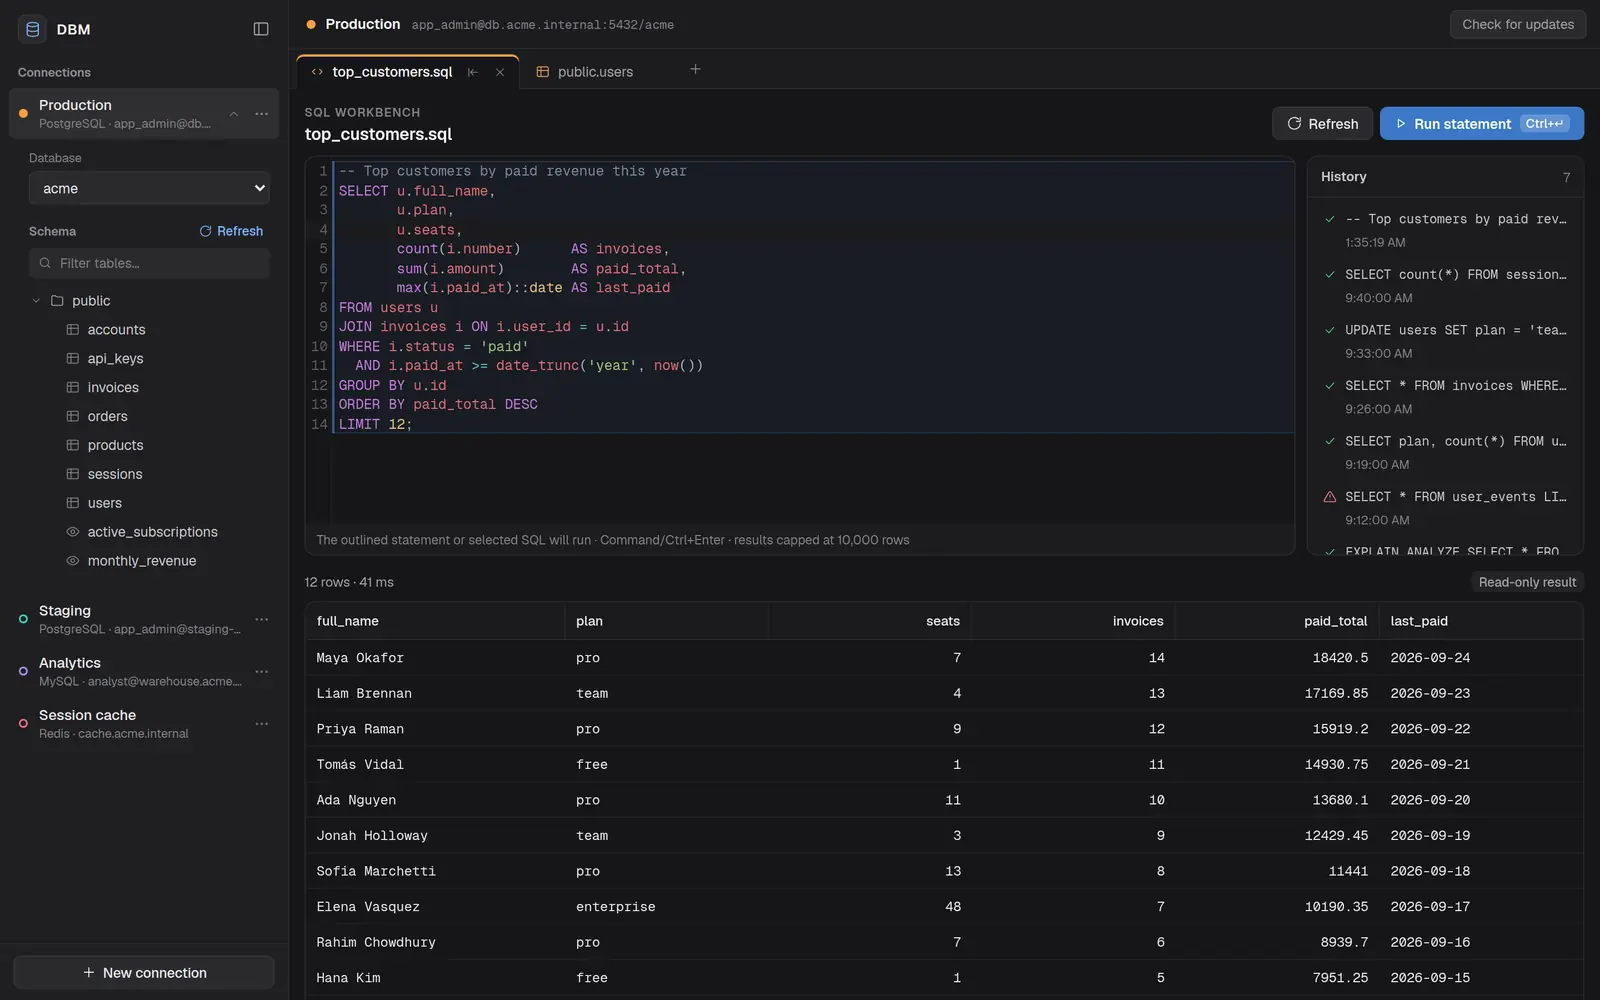
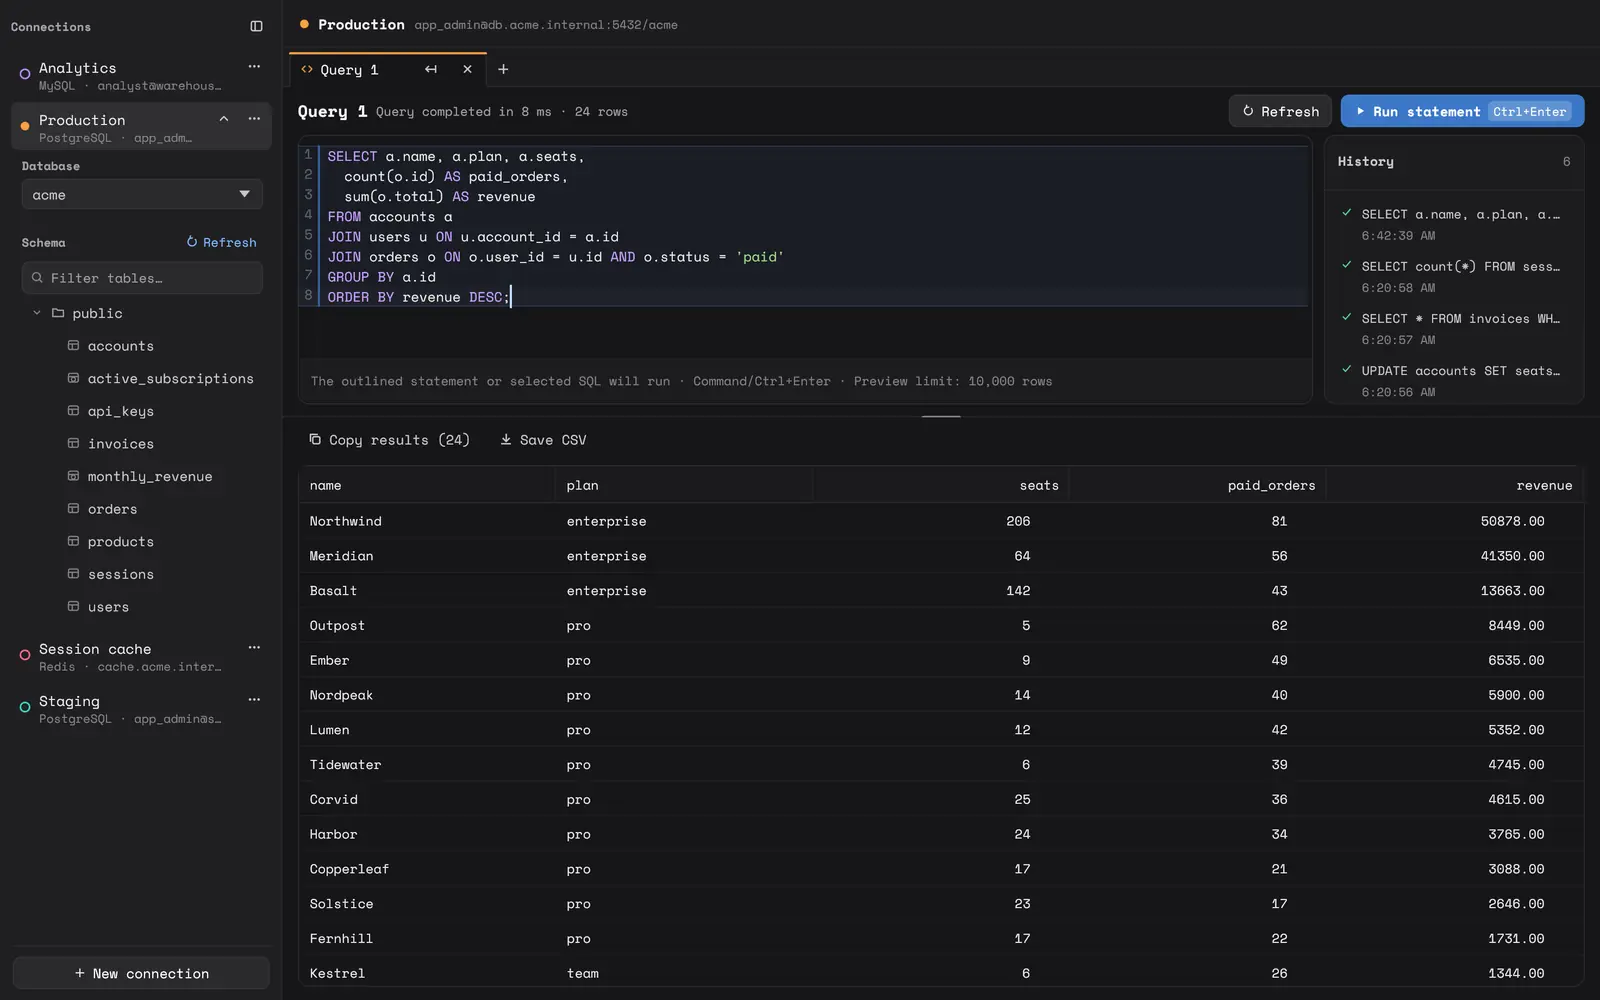
Refresh README and website screenshots against real databases
Captured from the Windows/Linux app connected to local PostgreSQL, MySQL and Redis servers with sample data, at 2x in a 1472x920 window so the connection dialog fits. The old images showed the DBM name and the previous UI font.

Claude-Session: https://claude.ai/code/session_01A6QrULMav6seQ8nTi6rr5P

diff --git a/docs/development.md b/docs/development.md
@@ -197,9 +197,13 @@ in [the rename plan](anybase-migration.md#website).
 
 ## Screenshots
 
-The README screenshots in `docs/screenshots/` are captured from the native
-apps' `--demo` fixture. The AppKit app can also render the fixture's main
-states to PNG files without interaction:
+The README screenshots in `docs/screenshots/` show the Windows/Linux app
+connected to real local PostgreSQL, MySQL, and Redis servers loaded with sample
+data, captured at 2× in a 1472×920-point window (2944×1840 pixels). The
+connection dialog needs that height to fit without scrolling.
+
+The AppKit app can also render the demo fixture's main states to PNG files
+without interaction:
 
 ```sh
 mkdir -p target/native/snapshots
@@ -210,12 +214,15 @@ This macOS-only run also checks header copying, query pane resizing, and
 replacing query results with fewer rows, different columns, or an empty result.
 The result checks use synthetic data in an isolated grid, not a live database.
 
-The website serves 1600-pixel WebP copies. After replacing a README screenshot,
-regenerate them with ImageMagick:
+The website serves 1600-pixel WebP copies, and `apps/web/public/og.jpg` is the
+change preview at 1200×750. After replacing a README screenshot, regenerate
+them with ImageMagick:
 
 ```sh
 for f in docs/screenshots/*.png; do
   convert "$f" -resize 1600x -quality 84 -define webp:method=6 \
     "apps/web/public/screenshots/$(basename "${f%.png}").webp"
 done
+convert docs/screenshots/change-preview.png -resize 1200x750 -strip -quality 86 \
+  apps/web/public/og.jpg
 ```
